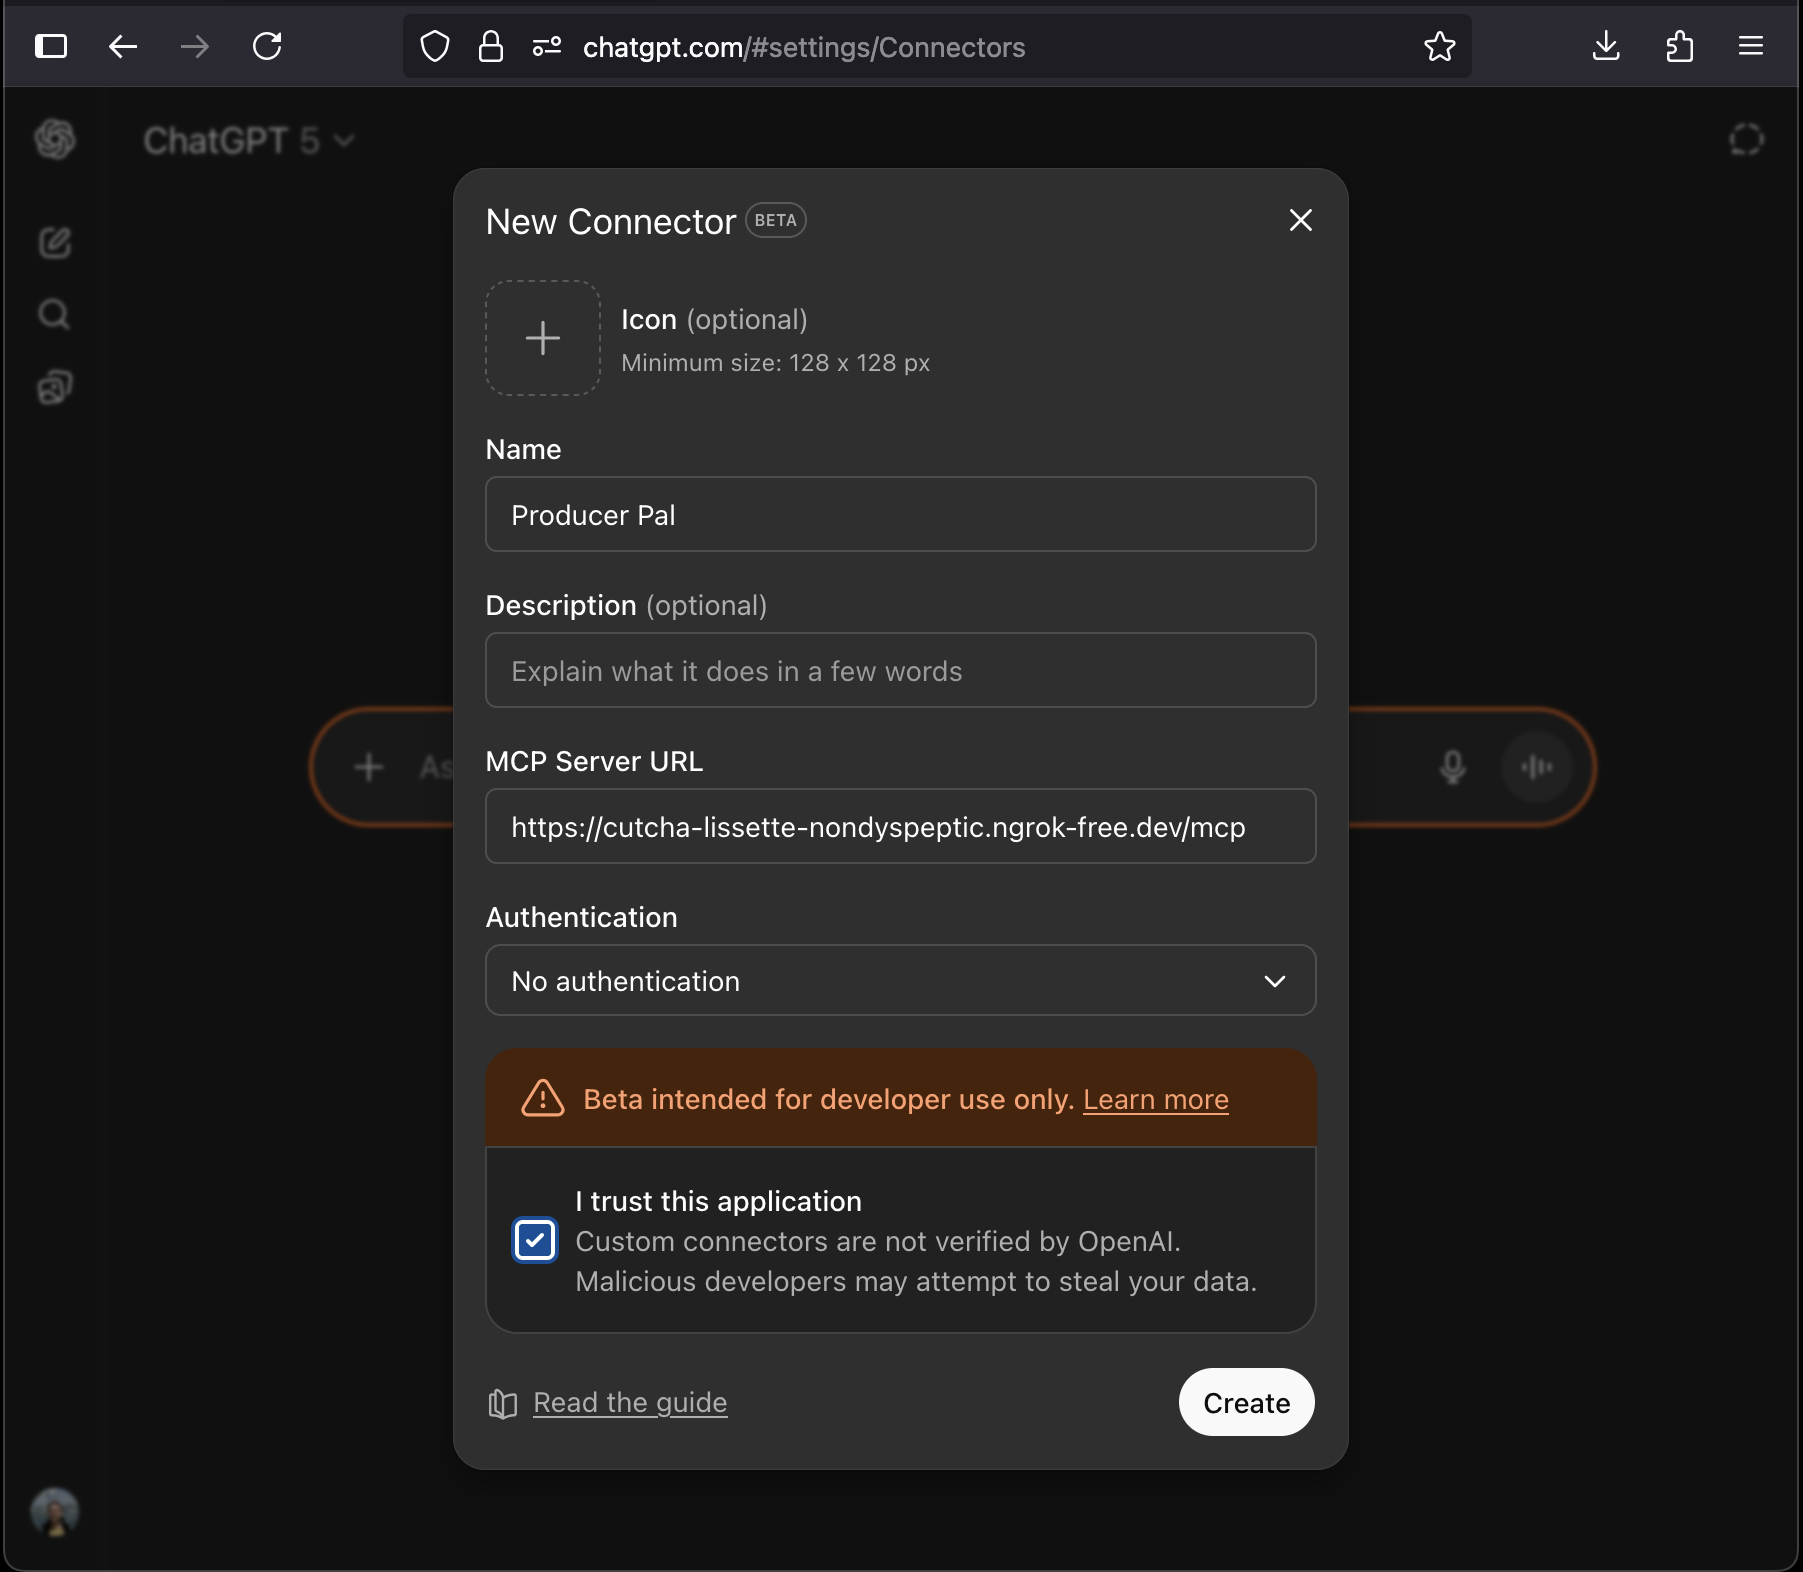
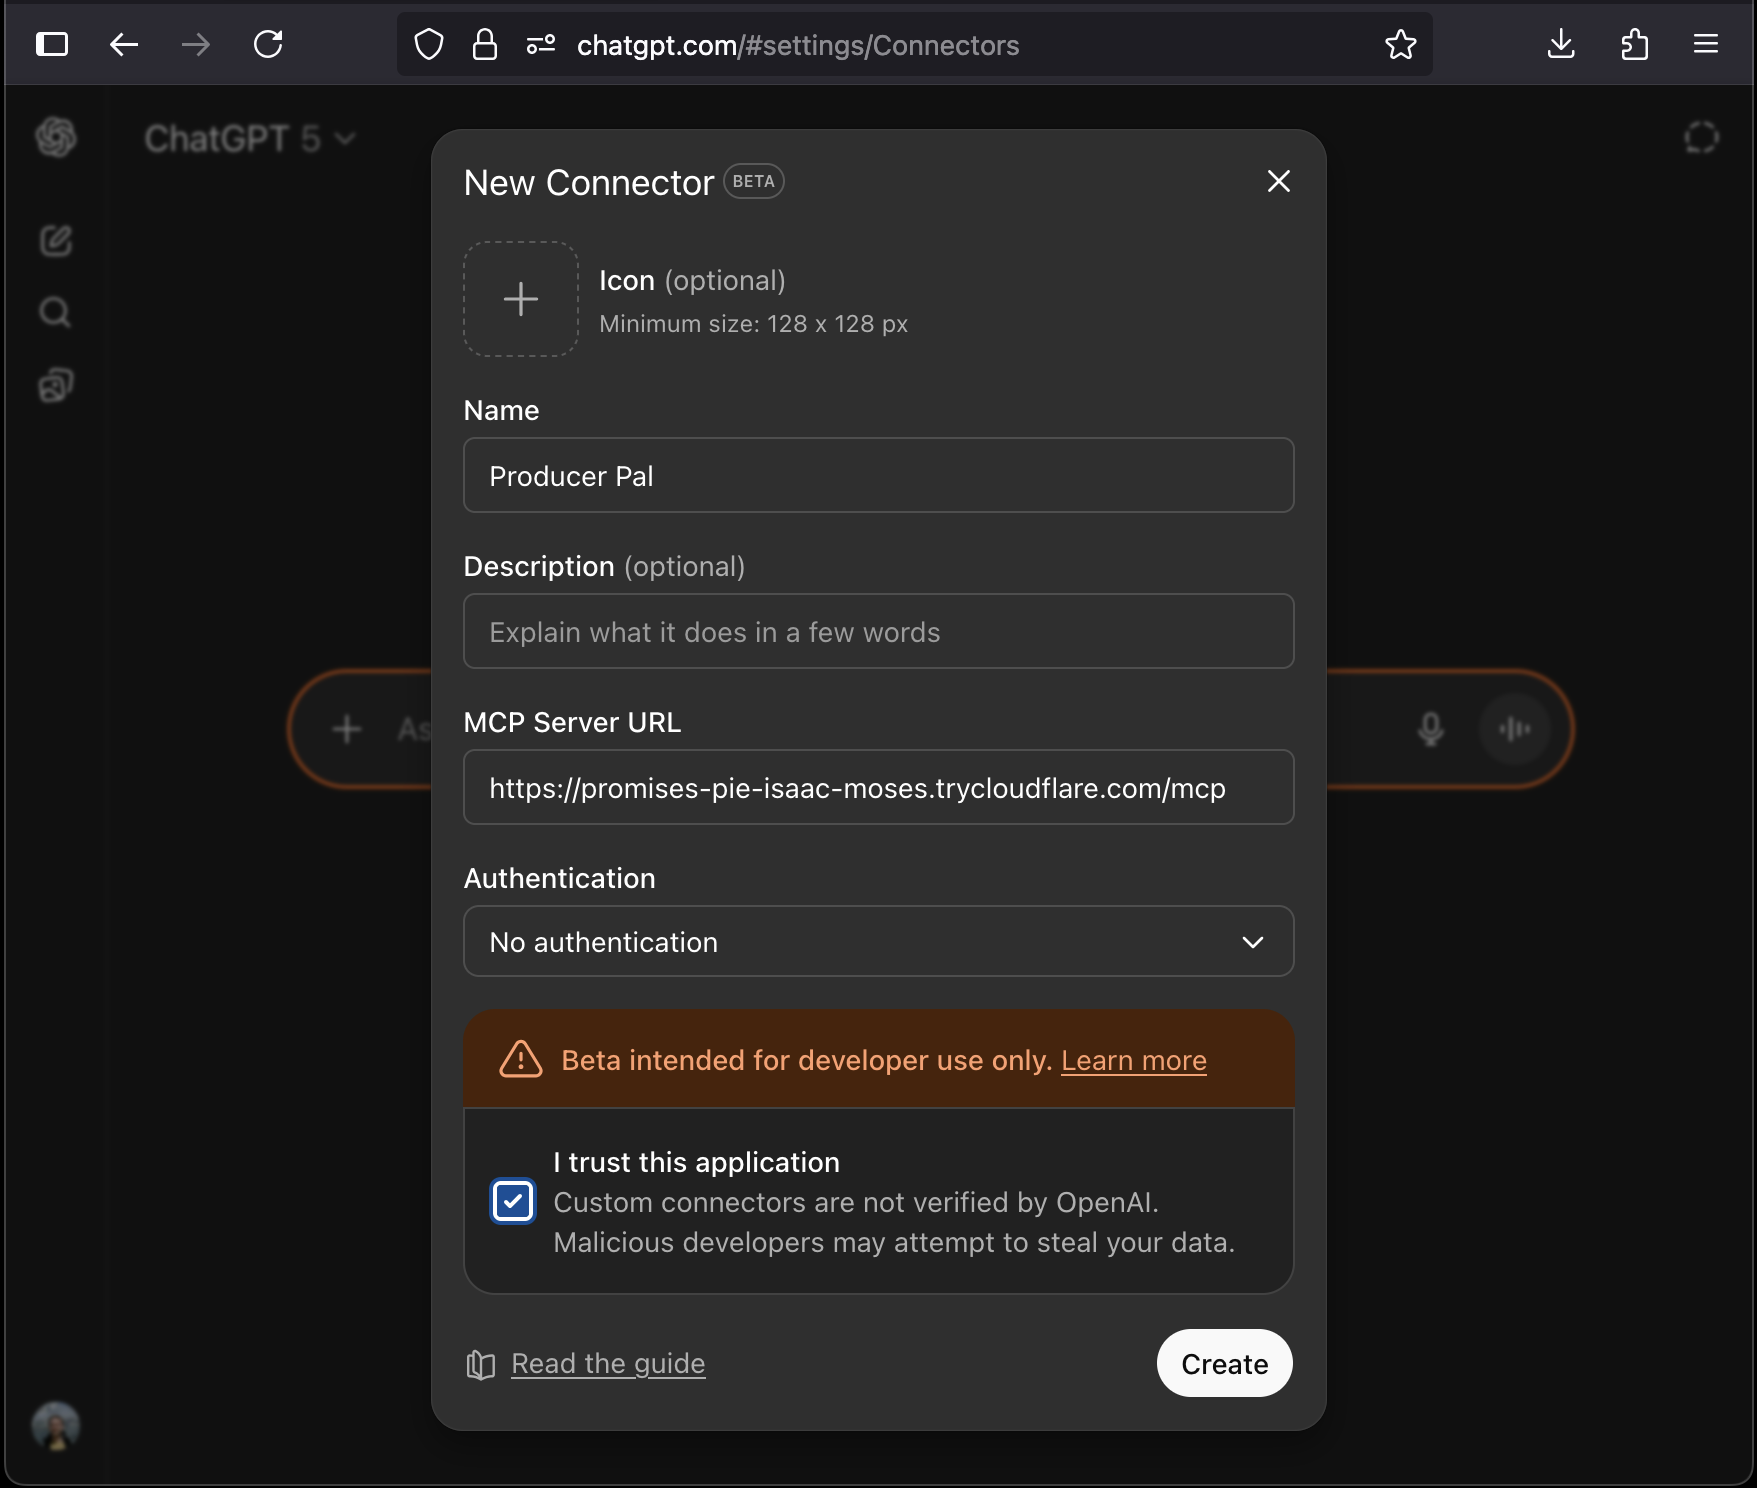
recommend cloudflare for web tunneling

diff --git a/INSTALLATION.md b/INSTALLATION.md
@@ -352,18 +352,18 @@ Use Producer Pal in your web browser with Anthropic's chat web app.
    For example:
 
    ```bash
-   ngrok http http://localhost:3350
+   cloudflared tunnel --url http://localhost:3350
    ```
 
-   will give you a public URL such as `https://abc-xyz.ngrok-free.dev`:
+   will give you a public URL such as `https://abc-xyz.trycloudflare.com`:
 
-   <img src="./doc/img/ngrok-tunnel.png" alt="ngrok web tunnel" width="700">
+   <img src="./doc/img/cloudflare-tunnel.png" alt="ngrok web tunnel" width="700">
 
 3. Go to
    [claude.ai settings → connectors](https://claude.ai/settings/connectors)
 4. Add a custom connector with your tunnel URL + `/mcp`
 
-   (e.g. `https://abc-xyz.ngrok-free.dev/mcp`):
+   (e.g. `https://abc-xyz.trycloudflare.com/mcp`):
 
    <img src="./doc/img/claude-web-setup.png" alt="Claude web connector setup" width="700">
 
@@ -413,12 +413,12 @@ Use Producer Pal in your web browser with OpenAI's chat web app.
    For example:
 
    ```bash
-   ngrok http http://localhost:3350
+   cloudflared tunnel --url http://localhost:3350
    ```
 
-   will give you a public URL such as `https://abc-xyz.ngrok-free.dev`:
+   will give you a public URL such as `https://abc-xyz.trycloudflare.com`:
 
-   <img src="./doc/img/ngrok-tunnel.png" alt="ngrok web tunnel" width="700">
+   <img src="./doc/img/cloudflare-tunnel.png" alt="ngrok web tunnel" width="700">
 
 3. Go to
    [ChatGPT → Settings → Apps & Connectors → Advanced](https://chatgpt.com/#settings/Connectors/Advanced)
@@ -430,7 +430,7 @@ Use Producer Pal in your web browser with OpenAI's chat web app.
    settings, create a custom connector:
    - URL: Your tunnel URL + `/mcp`
 
-     (e.g., `https://abc-xyz.ngrok-free.dev/mcp`)
+     (e.g., `https://abc-xyz.trycloudflare.com/mcp`)
 
    - No authentication
    - Trust the app
@@ -713,18 +713,29 @@ tunnel. Customize the port number in the Producer Pal device settings
 network. Update the `:3350` in your AI connection settings if you change it in
 the Producer Pal Max for Live device.
 
-### ngrok (Recommended)
+### Cloudflare Quick Tunnels (Recommended)
 
-- [Sign up](https://ngrok.com) for persistent URLs (paid) or use free tier with
-  changing URLs
-- Install: `brew install ngrok` (macOS) or download from website
-- Run: `ngrok http http://localhost:3350`
+- No account needed to get started
+- Randomized domains so you can restart if one leaks (see security warning
+  above)
+- Install: `brew install cloudflared` (macOS) or
+  [check the website for install instructions](https://developers.cloudflare.com/cloudflare-one/connections/connect-networks/do-more-with-tunnels/trycloudflare/)
+- Run: `cloudflared tunnel --url http://localhost:3350`
 
 ### Pinggy
 
 - No installation required on macOS
 - Run: `ssh -R 80:localhost:3350 a.pinggy.io`
-- Free tier limited to 60 minutes
+- Free tier limited to 60 minutes,
+  [check the website for more info](https://pinggy.io/])
+
+### ngrok
+
+- ⚠ Gives a single persistent domain to all free accounts on sign-up, which, if
+  leaked, can't be changed
+- Install: `brew install ngrok` (macOS) or
+  [check the website for install instructions](https://ngrok.com)
+- Run: `ngrok http http://localhost:3350`
 
 <br><br>
 
